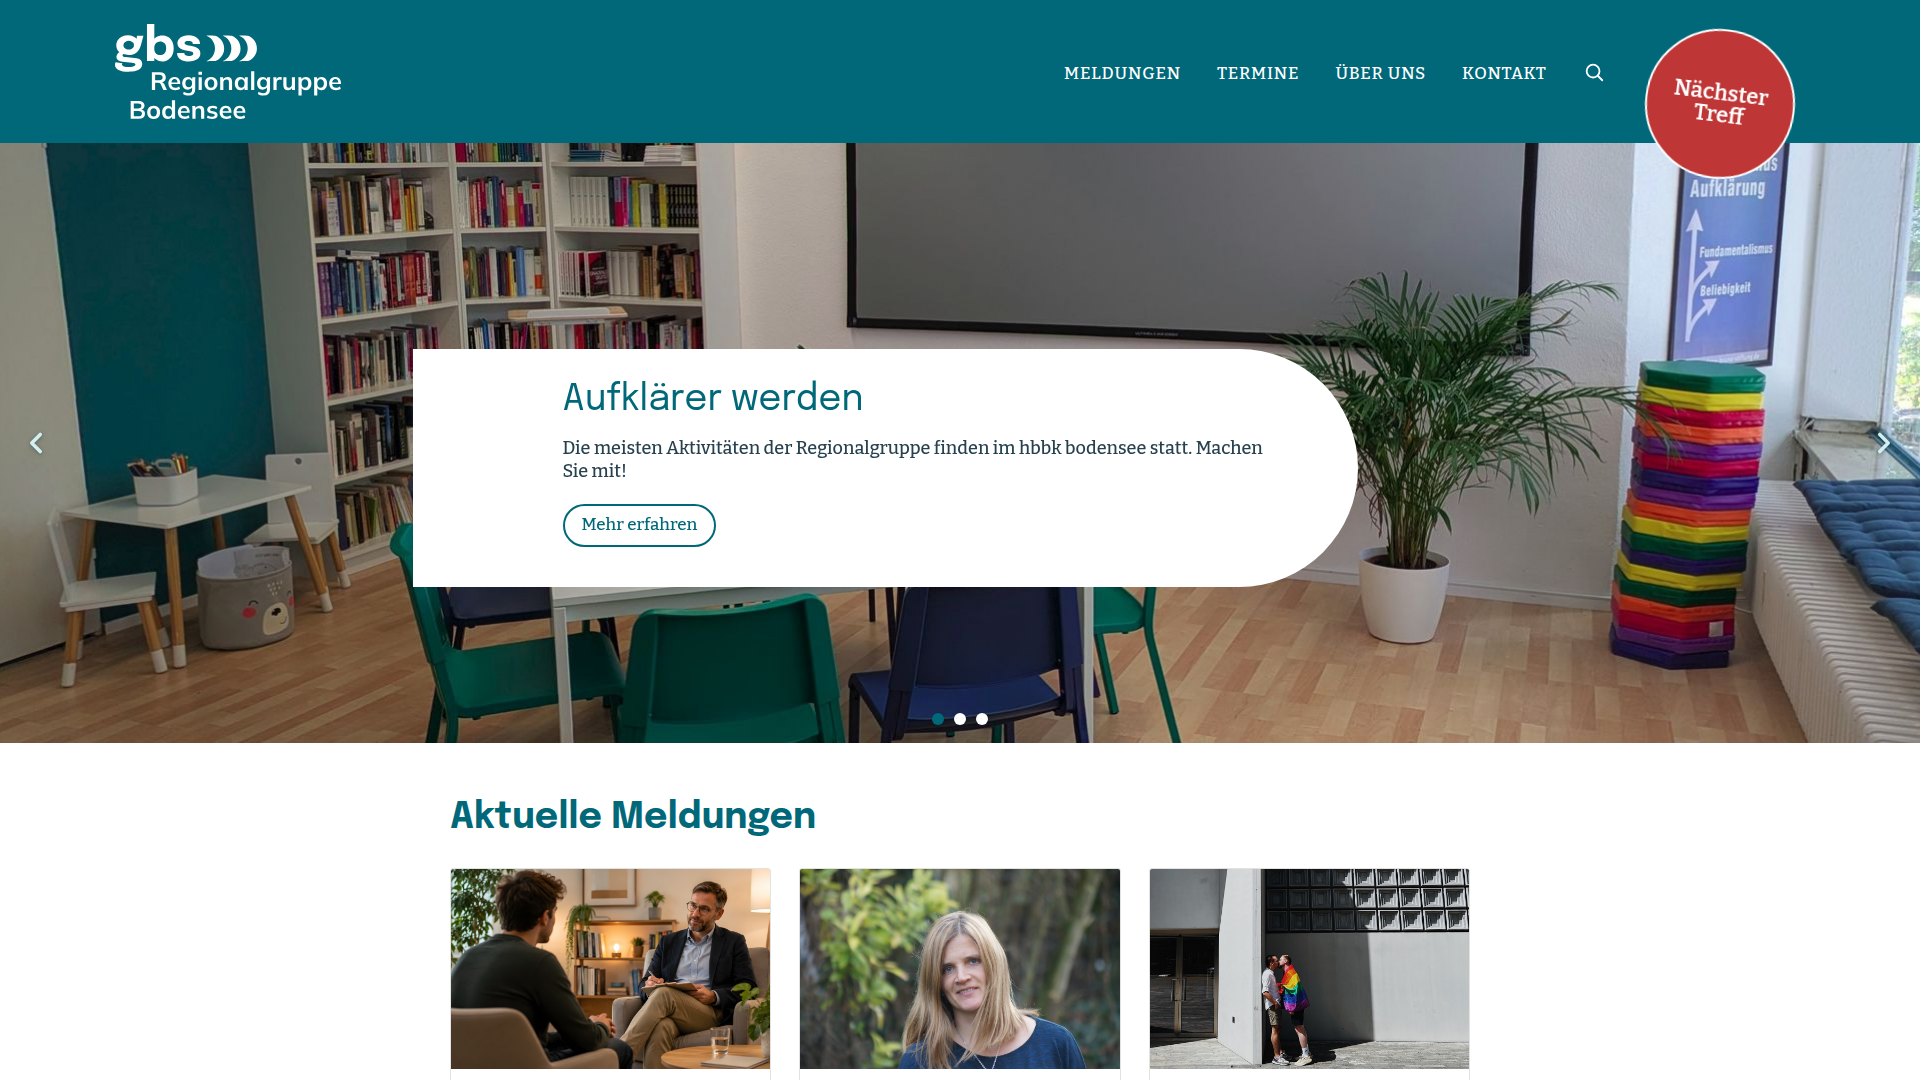
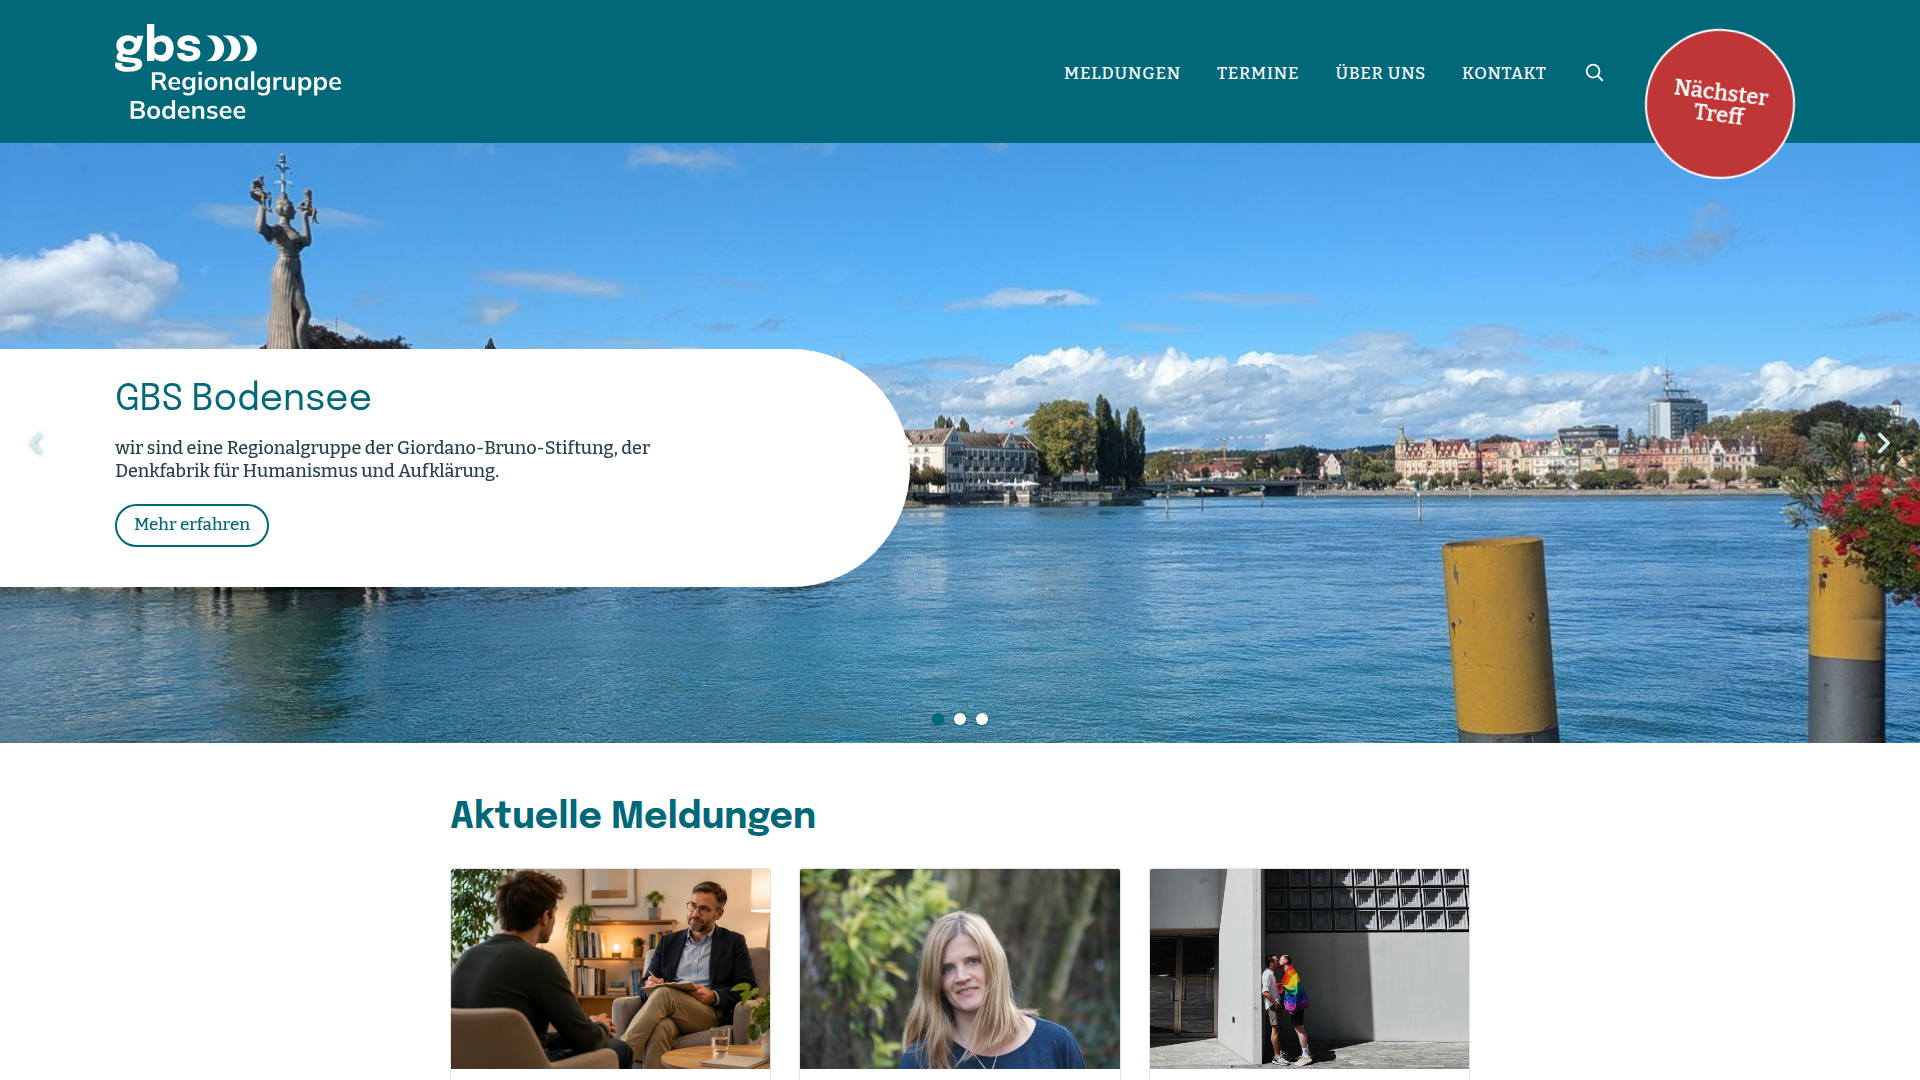
TICKET-017: Text-Kasten reicht bis zum linken Seitenrand wie bei den RGs
Content sitzt nicht mehr im 1080px-Container, sondern direkt im Slide mit
padding-inline: 6% (gerendert gemessen an gbs-muc.de: 1920->115.2px, 1366->82px,
1100->66px = exakt 6% vw). ::before left:-150px -> Kasten startet bei -34.8px
(1920) und ist am linken Rand abgeschnitten; Pixelprobe x=5,y=450 = weiß.
Content-Breite fix 795px (x=115.2 bei 1920, identisch zur Referenz).
Mobil <=980px: padding-inline 0, Content volle Breite. Doku aktualisiert.

Generated by Mistral Vibe.

diff --git a/statamic-site/resources/css/site.css b/statamic-site/resources/css/site.css
@@ -621,6 +621,10 @@ img {
     inset: 0;
     display: flex;
     align-items: center;
+    /* wie RGs (Divi fullwidth row, gerendert gemessen): 6 % Viewport-Breite,
+       dadurch ragt der weiße Content-Kasten (::before left:-150px) bis zum
+       linken Seitenrand */
+    padding-inline: 6%;
     opacity: 0;
     transition: opacity 0.6s ease;
     pointer-events: none;
@@ -649,7 +653,8 @@ img {
     position: relative;
     display: flex;
     flex-direction: column;
-    max-width: 795px;
+    width: 795px;
+    max-width: 100%;
     margin-top: 50px;
     padding: 30px 80px 40px 0;
 }
@@ -1259,6 +1264,10 @@ img {
 
     /* TICKET-017 mobil wie RGs (gerendert gemessen): Text direkt auf dem Foto,
        weiß mit Text-Schatten, weißer Kasten ausgeblendet */
+    .hero-slide {
+        padding-inline: 0;
+    }
+
     .hero-slide-content {
         max-width: 100%;
         margin-top: 0;

diff --git a/statamic-site/resources/views/partials/hero-slider.antlers.html b/statamic-site/resources/views/partials/hero-slider.antlers.html
@@ -5,7 +5,7 @@
             <div class="hero-slide{{ if first }} is-active{{ /if }}">
                 <img class="hero-slide-bg" src="{{ bild }}" alt=""
                      {{ unless first }}loading="lazy"{{ /unless }}>
-                <div class="container hero-slide-content">
+                <div class="hero-slide-content">
                     <h2 class="hero-slide-title">{{ titel }}</h2>
                     <p class="hero-slide-text">{{ text }}</p>
                     {{ if link }}

diff --git a/docs/ticket-017-messung.md b/docs/ticket-017-messung.md
@@ -17,9 +17,12 @@
 | Pfeile | `#D3EFEF`, 48 px, Hover `#BF3636` | bereits identisch (TICKET-008) |
 | Dots | weiß, aktiv `#006879` | bereits identisch |
 
-Hinweis: Text-Kasten sitzt bei den RGs im Fullwidth-Row (x≈115 px bei 1920), bei gbsbod
-im 1080-px-Container – горизонтale Position weicht bewusst ab (Container-System der Site),
-Kasten-Optik (weiß, rechts halbrund, 150 px Überstand links) ist identisch.
+Position: wie RGs Fullwidth-Slide mit `padding-inline: 6 %` (gerendert: 1920→115.2 px,
+1366→82 px, 1100→66 px, exakt 6 % vw). Content-Kasten (::before `left:-150px`) ragt
+dadurch bis zum linken Seitenrand (kastenStartX −34.8 px bei 1920, am Rand abgeschnitten);
+verifiziert per Pixelprobe (x=5,y=450 = weiß). Content selbst: `width:795px` fix,
+x=115.2 px bei 1920 – identisch zur Referenz. Mobil (≤980 px): `padding-inline: 0`,
+Content volle Breite mit eigenem Padding.
 
 ## Eigen gbsbod nach Umsetzung (verifiziert, localhost:8000)
 
